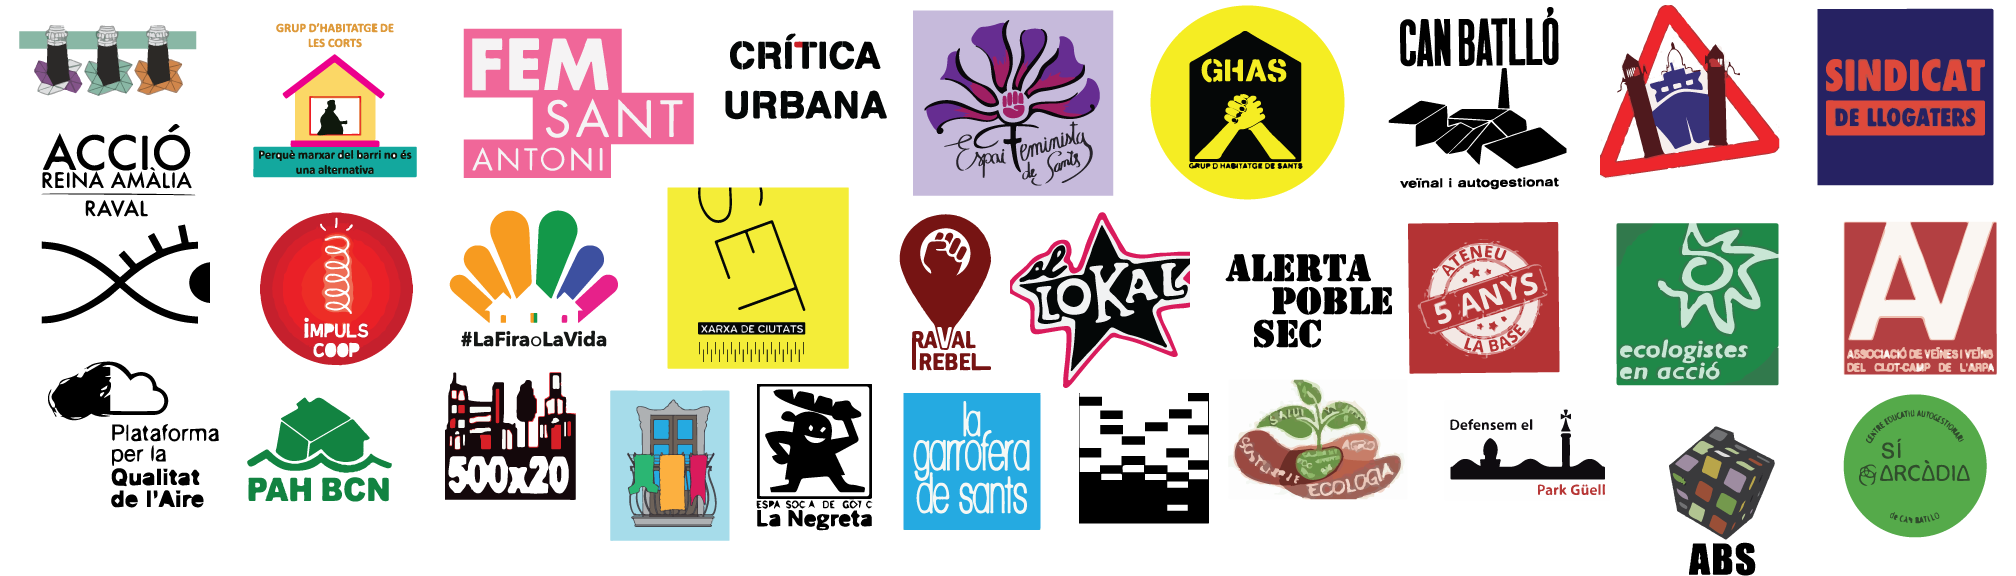
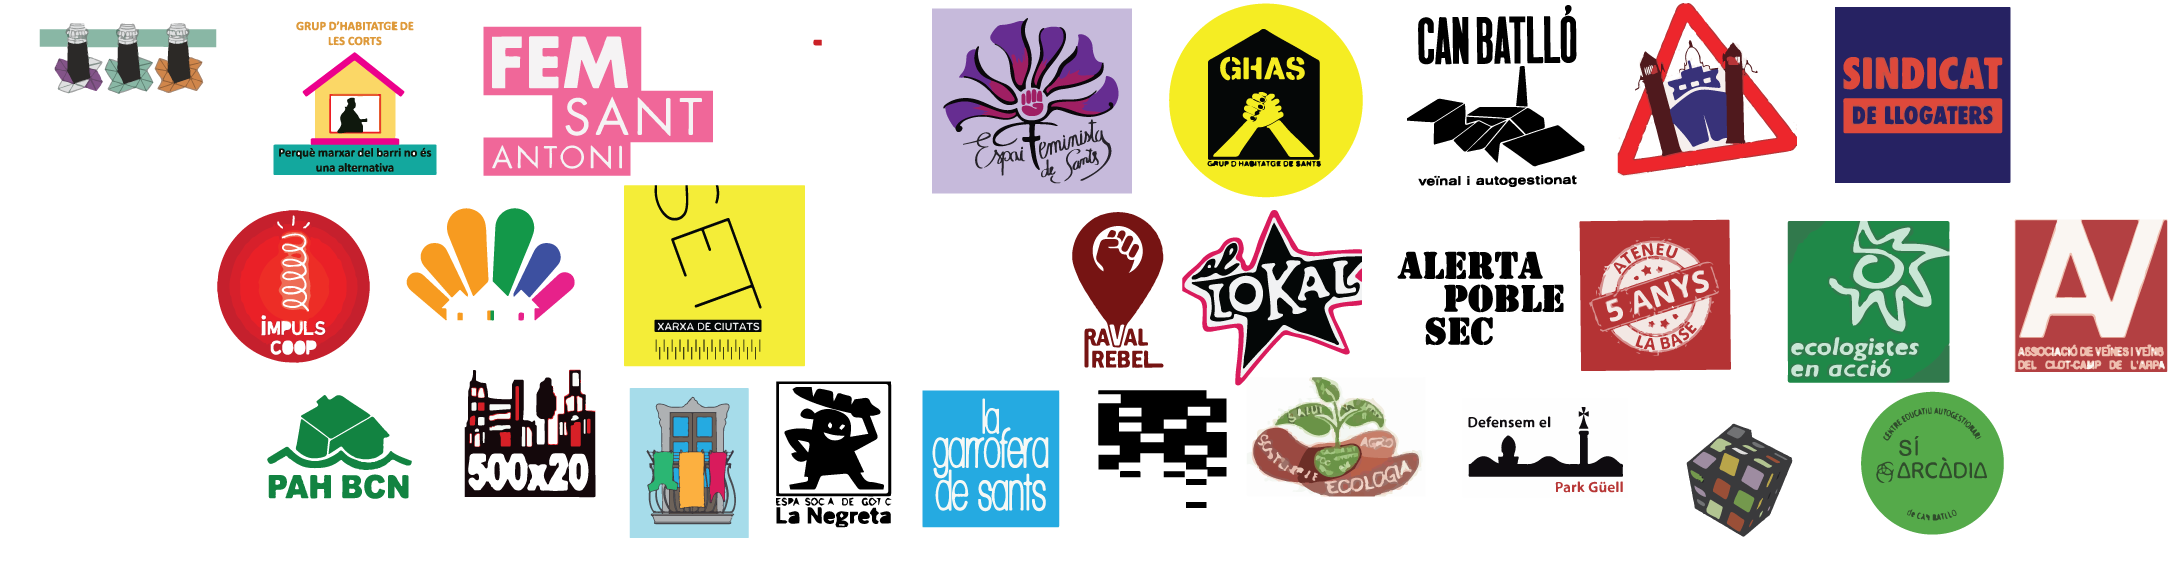
Updating images and placements, fixing square button in companies area

diff --git a/src/ofApp.cpp b/src/ofApp.cpp
@@ -6,8 +6,6 @@ void ofApp::setup(){
 	ofSetCircleResolution(100);
 	width = ofGetWidth();
 	height = ofGetHeight();
-	// Small square size
-	smSqSize = height/5.0;
 	mySerial.listDevices();
 	vector <ofSerialDeviceInfo> deviceList = mySerial.getDeviceList();
 	mySerial.setup(0, baud); //open the first device
@@ -28,33 +26,34 @@ void ofApp::setupImages(){
 //--------------------------------------------------------------
 void ofApp::setupAnimations(){
 	/**
-	 * ALL THE ANIMATIONS GO HERE
+	 * ALL THE LINE ANIMATIONS GO HERE
 	 */
 	vector<std::array<glm::vec2, 2>> pts;
-	pts.push_back(array<glm::vec2, 2> {{glm::vec2(1615, 1064), glm::vec2(1615, 684)}});
-	buildingDashedLines.push_back(DashedLine(pts, 5.0, red, 250, false));
+	// Lower Building Dashed Line
+	pts.push_back(array<glm::vec2, 2> {{glm::vec2(1615, 1086), glm::vec2(1615, 706)}});
+	buildingDashedLines.push_back(DashedLine(pts, 2.0, red, 250, false));
 	pts.clear();
-	pts.push_back(array<glm::vec2, 2> {{glm::vec2(1670, 1130), glm::vec2(1670, 750)}});
-	buildingDashedLines.push_back(DashedLine(pts, 5.0, red, 250, false));
+	pts.push_back(array<glm::vec2, 2> {{glm::vec2(1670, 1152), glm::vec2(1670, 772)}});
+	buildingDashedLines.push_back(DashedLine(pts, 2.0, red, 250, false));
 	pts.clear();
-	pts.push_back(array<glm::vec2, 2> {{glm::vec2(1725, 1070), glm::vec2(1725, 690)}});
-	buildingDashedLines.push_back(DashedLine(pts, 5.0, red, 250, false));
+	pts.push_back(array<glm::vec2, 2> {{glm::vec2(1725, 1092), glm::vec2(1725, 712)}});
+	buildingDashedLines.push_back(DashedLine(pts, 2.0, red, 250, false));
 	pts.clear();
-	pts.push_back(array<glm::vec2, 2> {{glm::vec2(1780, 1040), glm::vec2(1780, 660)}});
-	buildingDashedLines.push_back(DashedLine(pts, 5.0, red, 250, false));
+	pts.push_back(array<glm::vec2, 2> {{glm::vec2(1780, 1062), glm::vec2(1780, 682)}});
+	buildingDashedLines.push_back(DashedLine(pts, 2.0, red, 250, false));
 	pts.clear();
-	pts.push_back(array<glm::vec2, 2> {{glm::vec2(1835, 995), glm::vec2(1835, 615)}});
-	buildingDashedLines.push_back(DashedLine(pts, 5.0, red, 250, false));
+	pts.push_back(array<glm::vec2, 2> {{glm::vec2(1835, 1017), glm::vec2(1835, 637)}});
+	buildingDashedLines.push_back(DashedLine(pts, 2.0, red, 250, false));
 	pts.clear();
-	pts.push_back(array<glm::vec2, 2> {{glm::vec2(1890, 960), glm::vec2(1890, 588)}});
-	buildingDashedLines.push_back(DashedLine(pts, 5.0, red, 250, false));
+	pts.push_back(array<glm::vec2, 2> {{glm::vec2(1890, 982), glm::vec2(1890, 610)}});
+	buildingDashedLines.push_back(DashedLine(pts, 2.0, red, 250, false));
 	pts.clear();
 	/**
 	 * ALL THE IMAGE ANIMATIONS GO HERE
 	 */
 	companiesAnimation = ImageAnimation(
 		companies,
-		glm::vec2(width/2.0, height - 120),
+		glm::vec2(fixedWidth/2.0, fixedHeight - 120),
 		glm::vec2(800, 200),
 		250
 	);
@@ -63,18 +62,18 @@ void ofApp::setupAnimations(){
 	 */
 	buildingMovement = ImageMovement(
 		building,
-		glm::vec2(400, 366),
-		glm::vec2(1760, 960),
-		glm::vec2(1760, 630),
+		glm::vec2(333, 260),
+		glm::vec2(1752, 982),
+		glm::vec2(1752, 652),
 		250
 	);
 	/**
 	 * ALL THE HAND MARKERS GO HERE
 	 */
 	// MILLENIUM FALCON
-	handMarkers[0] = HandMarker(glm::vec2(width - 100, height - 100), red);
-	// ABOVE THE COMPANIES
-	handMarkers[1] = HandMarker(glm::vec2(width/3.0 - 80, height - 200), red);
+	handMarkers[0] = HandMarker(glm::vec2(fixedWidth - 100, fixedHeight - 100), red, true);
+	// CENTER OF THE COMPANIES
+	handMarkers[1] = HandMarker(glm::vec2(fixedWidth/2.0 - 50, fixedHeight - 120), red, false);
 }
 
 //--------------------------------------------------------------
@@ -198,11 +197,11 @@ void ofApp::checkShouldRunAnimations(int index){
 	// If it's the first button, we should run the animation
 	if (index == 0) {
 		shouldRunAnimation[index] = true;
-	} else if (index == 1) { // The good companies sensor
+	} else if (index == 1) { // The bad companies sensor
 		if (shouldRunAnimation[0]) {
 			shouldRunAnimation[index] = true;
 		}
-	} else if (index == 2) { // The left building text
+	} else if (index == 2) { // The lower building
 		if (shouldRunAnimation[1]) {
 			shouldRunAnimation[index] = true;
 		}

diff --git a/src/HandMarker.cpp b/src/HandMarker.cpp
@@ -11,12 +11,14 @@ HandMarker::HandMarker()
 {
 	center = glm::vec2(ofGetWidth()/2.0, ofGetHeight()/2.0);
 	color = ofColor(240, 60, 40);
+	isCircle = true;
     setup();
 }
 
-HandMarker::HandMarker(glm::vec2 _center, ofColor _color) {
+HandMarker::HandMarker(glm::vec2 _center, ofColor _color, bool _isCircle) {
 	center = _center;
 	color = _color;
+	isCircle = _isCircle;
     setup();
 }
 
@@ -31,11 +33,20 @@ void HandMarker::update(float _inc) {
 void HandMarker::draw() {
 	ofPushStyle();
 	ofSetColor(color);
-	float radius = 30 + 10 * sin(inc);
-	ofFill();		// draw "filled shapes"
-	ofDrawCircle(center.x, center.y, radius);
-	ofNoFill();
-	ofSetColor(color);
-	ofDrawCircle(center.x, center.y, 44);
+	float radius = 20 + 8 * sin(inc);
+	if (isCircle) {
+		ofFill();
+		ofDrawCircle(center.x, center.y, radius);
+		ofNoFill();
+		ofSetColor(color);
+		ofDrawCircle(center.x, center.y, 30);
+	} else {
+		ofSetRectMode(OF_RECTMODE_CENTER);
+		ofFill();
+		ofDrawRectangle(center.x, center.y, radius, radius);
+		ofNoFill();
+		ofSetColor(color);
+		ofDrawRectangle(center.x, center.y, 30, 30);
+	}
 	ofPopStyle();
 }

diff --git a/src/HandMarker.hpp b/src/HandMarker.hpp
@@ -12,7 +12,7 @@ class HandMarker
 public:
 
 	HandMarker();
-    HandMarker(glm::vec2 center, ofColor _color);
+    HandMarker(glm::vec2 center, ofColor _color, bool _isCircle);
 
     void setup();
 	void update(float _inc);
@@ -23,4 +23,6 @@ public:
     float inc;
 
 	ofColor color;
+
+	bool isCircle;
 };

diff --git a/src/ofApp.h b/src/ofApp.h
@@ -37,7 +37,8 @@ class ofApp : public ofBaseApp{
     	float width;
     	float height;
 
-        float smSqSize;
+        float fixedWidth = 1920.0;
+        float fixedHeight = 1080.0;
 
     	float universalCounter = 0.0;
 
